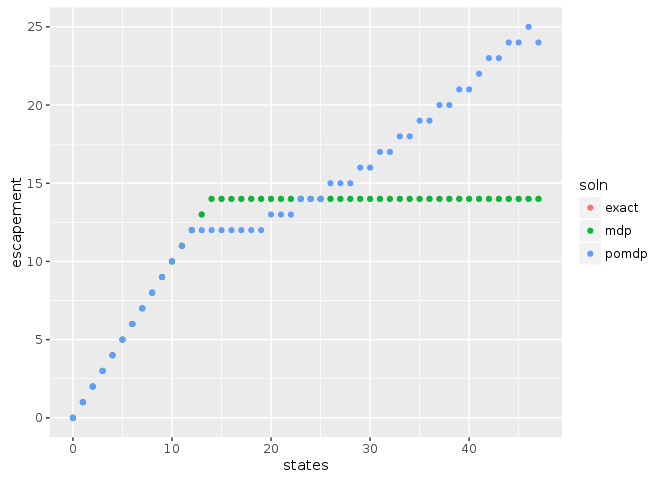
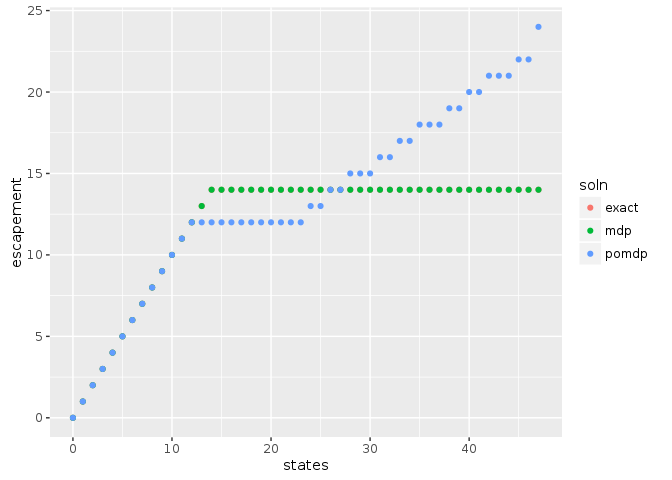
add some text to problem def, return diagnostics from pomdp

diff --git a/inst/notebook/fisheries-ex.md b/inst/notebook/fisheries-ex.md
@@ -1,4 +1,8 @@
 
+Here we consider the Partially Observed Markov Decision Process
+
+
+First, we will load the libraries needed for this example.  The MDPtoolbox provides simple routines for solving 
 
 
 ```r
@@ -23,26 +27,39 @@ library("appl")
 ```
 
 
-## MDP Problem definition
+## Problem definition
+
+Our problem is defined by a state space, `states`, representing the true fish stock size (in arbitrary units), 
+and an action space, `actions` representing the number of fish that will be harvested (or attempted to harvest).  
+For simplicitly, we will permit any action from 0 harvest to the maximum possible state size.  
+
+A stock recruitment function, `f` describes the expected future state given the current state.  The true future
+state will be a stochastic draw with this mean.
+
+A reward function determines the value of taking action of harvesting `h` fish when stock size is `x` fish;
+for simplicity this example assumes a fixed price per unit harvest, with no cost on harvesting effort. 
+Future rewards are discounted.
 
 
 ```r
 states <- 0:47
 actions <- states
+
 f <- function(x, h, r = 1, K = 33){
   s <- pmax(x - h, 0)
   s * exp(r * (1 - s / K) )
 }
 
-sigma_g = 0.5
+sigma_g <- sqrt(log(1 + 0.5 / 6)) # Scale the log-standard-deviation to result in similar variance to a uniform distribution of width 0.5
 
-# Scale for lognormal
-sigma_g <- sqrt(log(1 + sigma_g / 6))
 reward_fn <- function(x,h) pmin(x,h)
 discount <- 0.95
 ```
 
 ## Exact / semi-analytic solution
+
+For comparison, we note that an exact solution to the deterministic or low-noise problem comes from Reed 1979, which proves that a constant escapement
+policy $S^*$ is optimal, with $\tfrac{df}{dx}|_{x = S^*} = 1/\gamma$ for discount $\gamma$,
 
 
 ```r
@@ -53,6 +70,10 @@ exact_policy <- sapply(states, function(x) if(x < S_star) 0 else x - S_star)
 ```
 
 # Generate Matrices
+
+When the state is observed without error, the problem is a Markov Decision Process (MDP) and can be solved by 
+stochastic dynamic programming (e.g. policy iteration) over the discrete state and action space. To do so, we need
+matrix representations of the above transition function and reward function:
 
 
 ```r
@@ -102,6 +123,11 @@ mdp <- MDPtoolbox::mdp_policy_iteration(transition, reward, discount)
 
 ## POMDP problem
 
+In the POMDP problem, the true state is unknown, but measured imperfectly.  We introduce
+an observation matrix to indicate the probabilty of observing a particular state $y$ given
+a true state $x$. In principle this could depend on the action taken as well, though for 
+simplicity we assume only a log-normal measurement error independent of the action chosen.
+
 
 ```r
 sigma_m <- sigma_g
@@ -131,16 +157,23 @@ for (k in 1:n_a) {
 ```
 
 
+With the transition matrix, observation matrix, reward matrix, and discount factor in hand, we have now fully specified the POMDP problem and are ready to solve.
+
+Note that unlike the MDP algorithm used above, this solution is approximate, and some care must be taken to ensure the solution has converged appropriately.  Here
+we set a desired precision limit, but also set a memory limit which will halt the algroithm early rather than permit any node to exceed this memory allocation.
+
+
+
 
 ```r
 ## Note: parallel doesn't error intelligably and cannot be interrupted gracefully either. Debug by running:
 #system.time(soln <- pomdp(transition, observation, reward, discount, stdout = TRUE))
-system.time( soln <- pomdp(transition, observation, reward, discount, mc.cores = 2, precision = 1, memory = 7750) )
+system.time( soln <- pomdp(transition, observation, reward, discount, mc.cores = 2, precision = 5, memory = 7750) )
 ```
 
 ```
-##       user     system    elapsed 
-## 175733.044     53.734 181859.132
+##      user    system   elapsed 
+## 65431.417    36.993 66793.525
 ```
 
 
